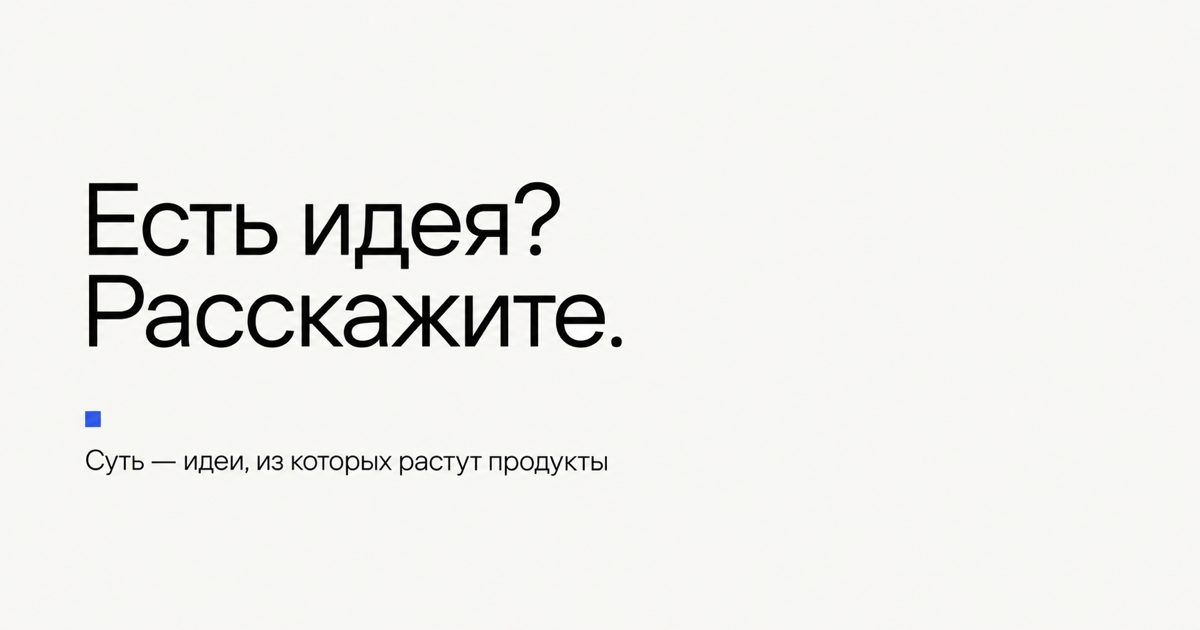
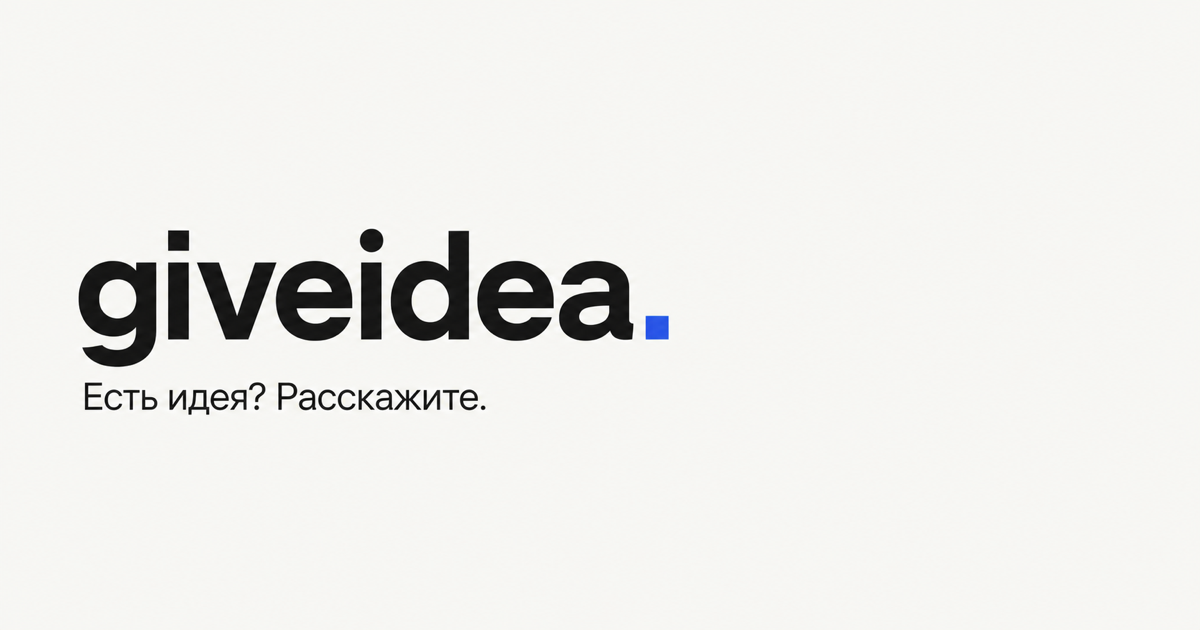
Rename brand to giveidea

Changed region(s): [[0.0617, 0.2714, 0.555, 0.6937], [0.0617, 0.7238, 0.5242, 0.754]]

diff --git a/lib/i18n.ts b/lib/i18n.ts
@@ -84,12 +84,12 @@ type Messages = {
 export const messages: Record<Locale, Messages> = {
   uk: {
     meta: {
-      homeTitle: 'Суть — ідеї, з яких виростають продукти',
+      homeTitle: 'giveidea — ідеї, з яких виростають продукти',
       homeDescription:
         'Опишіть ідею та залиште контакти. Ми вивчимо заявку й напишемо, якщо зможемо допомогти.',
-      adminTitle: 'Вхідні ідеї — Суть',
+      adminTitle: 'Вхідні ідеї — giveidea',
     },
-    common: { brand: 'Суть', language: 'Мова', team: 'Для команди' },
+    common: { brand: 'giveidea', language: 'Мова', team: 'Для команди' },
     home: {
       headline: 'Є ідея? Розкажіть.',
       description:
@@ -146,12 +146,12 @@ export const messages: Record<Locale, Messages> = {
   },
   en: {
     meta: {
-      homeTitle: 'Sut — ideas that become products',
+      homeTitle: 'giveidea — ideas that become products',
       homeDescription:
         'Describe your idea and leave your contact details. We will review it and get in touch if we can help.',
-      adminTitle: 'Incoming ideas — Sut',
+      adminTitle: 'Incoming ideas — giveidea',
     },
-    common: { brand: 'Sut', language: 'Language', team: 'For the team' },
+    common: { brand: 'giveidea', language: 'Language', team: 'For the team' },
     home: {
       headline: 'Have an idea? Tell us.',
       description:
@@ -210,12 +210,12 @@ export const messages: Record<Locale, Messages> = {
   },
   ru: {
     meta: {
-      homeTitle: 'Суть — идеи, из которых растут продукты',
+      homeTitle: 'giveidea — идеи, из которых растут продукты',
       homeDescription:
         'Опишите идею и оставьте контакты. Мы изучим заявку и напишем, если сможем помочь.',
-      adminTitle: 'Входящие идеи — Суть',
+      adminTitle: 'Входящие идеи — giveidea',
     },
-    common: { brand: 'Суть', language: 'Язык', team: 'Для команды' },
+    common: { brand: 'giveidea', language: 'Язык', team: 'Для команды' },
     home: {
       headline: 'Есть идея? Расскажите.',
       description:
@@ -272,12 +272,12 @@ export const messages: Record<Locale, Messages> = {
   },
   de: {
     meta: {
-      homeTitle: 'Sut — Ideen, aus denen Produkte entstehen',
+      homeTitle: 'giveidea — Ideen, aus denen Produkte entstehen',
       homeDescription:
         'Beschreiben Sie Ihre Idee und hinterlassen Sie Ihre Kontaktdaten. Wir prüfen Ihre Anfrage und melden uns, wenn wir helfen können.',
-      adminTitle: 'Eingehende Ideen — Sut',
+      adminTitle: 'Eingehende Ideen — giveidea',
     },
-    common: { brand: 'Sut', language: 'Sprache', team: 'Für das Team' },
+    common: { brand: 'giveidea', language: 'Sprache', team: 'Für das Team' },
     home: {
       headline: 'Eine Idee? Erzählen Sie uns davon.',
       description:
@@ -337,12 +337,12 @@ export const messages: Record<Locale, Messages> = {
   },
   es: {
     meta: {
-      homeTitle: 'Sut — ideas que se convierten en productos',
+      homeTitle: 'giveidea — ideas que se convierten en productos',
       homeDescription:
         'Describe tu idea y deja tus datos de contacto. La revisaremos y te escribiremos si podemos ayudarte.',
-      adminTitle: 'Ideas recibidas — Sut',
+      adminTitle: 'Ideas recibidas — giveidea',
     },
-    common: { brand: 'Sut', language: 'Idioma', team: 'Para el equipo' },
+    common: { brand: 'giveidea', language: 'Idioma', team: 'Para el equipo' },
     home: {
       headline: '¿Tienes una idea? Cuéntanosla.',
       description:
@@ -401,12 +401,12 @@ export const messages: Record<Locale, Messages> = {
   },
   fr: {
     meta: {
-      homeTitle: 'Sut — des idées qui deviennent des produits',
+      homeTitle: 'giveidea — des idées qui deviennent des produits',
       homeDescription:
         'Décrivez votre idée et laissez vos coordonnées. Nous l’étudierons et vous contacterons si nous pouvons vous aider.',
-      adminTitle: 'Idées reçues — Sut',
+      adminTitle: 'Idées reçues — giveidea',
     },
-    common: { brand: 'Sut', language: 'Langue', team: 'Pour l’équipe' },
+    common: { brand: 'giveidea', language: 'Langue', team: 'Pour l’équipe' },
     home: {
       headline: 'Une idée ? Parlez-nous-en.',
       description:

diff --git a/app/layout.tsx b/app/layout.tsx
@@ -12,12 +12,12 @@ const manrope = Manrope({
 
 export const metadata: Metadata = {
   metadataBase: new URL('https://sut-product-ideas.roborter.chatgpt.site'),
-  title: 'Суть — идеи, из которых растут продукты',
+  title: 'giveidea — идеи, из которых растут продукты',
   description:
     'Опишите идею и оставьте контакты. Мы изучим заявку и напишем, если сможем помочь.',
   openGraph: {
-    title: 'Есть идея? Расскажите.',
-    description: 'Суть — идеи, из которых растут продукты.',
+    title: 'giveidea — Есть идея? Расскажите.',
+    description: 'giveidea — идеи, из которых растут продукты.',
     type: 'website',
     locale: 'ru_RU',
     images: [
@@ -25,14 +25,14 @@ export const metadata: Metadata = {
         url: '/og.png',
         width: 1200,
         height: 630,
-        alt: 'Есть идея? Расскажите.',
+        alt: 'giveidea — Есть идея? Расскажите.',
       },
     ],
   },
   twitter: {
     card: 'summary_large_image',
-    title: 'Есть идея? Расскажите.',
-    description: 'Суть — идеи, из которых растут продукты.',
+    title: 'giveidea — Есть идея? Расскажите.',
+    description: 'giveidea — идеи, из которых растут продукты.',
     images: ['/og.png'],
   },
 };

diff --git a/app/admin/page.tsx b/app/admin/page.tsx
@@ -3,7 +3,7 @@ import type { Metadata } from 'next';
 import { AdminDashboard } from '@/components/admin-dashboard';
 
 export const metadata: Metadata = {
-  title: 'Входящие идеи — Суть',
+  title: 'Входящие идеи — giveidea',
   robots: { index: false, follow: false },
 };
 

diff --git a/app/page.tsx b/app/page.tsx
@@ -16,7 +16,7 @@ export default function Home() {
   useLocalizedDocument({
     title: t.meta.homeTitle,
     description: t.meta.homeDescription,
-    socialTitle: t.home.headline,
+    socialTitle: `${t.common.brand} — ${t.home.headline}`,
     locale,
   });
 
